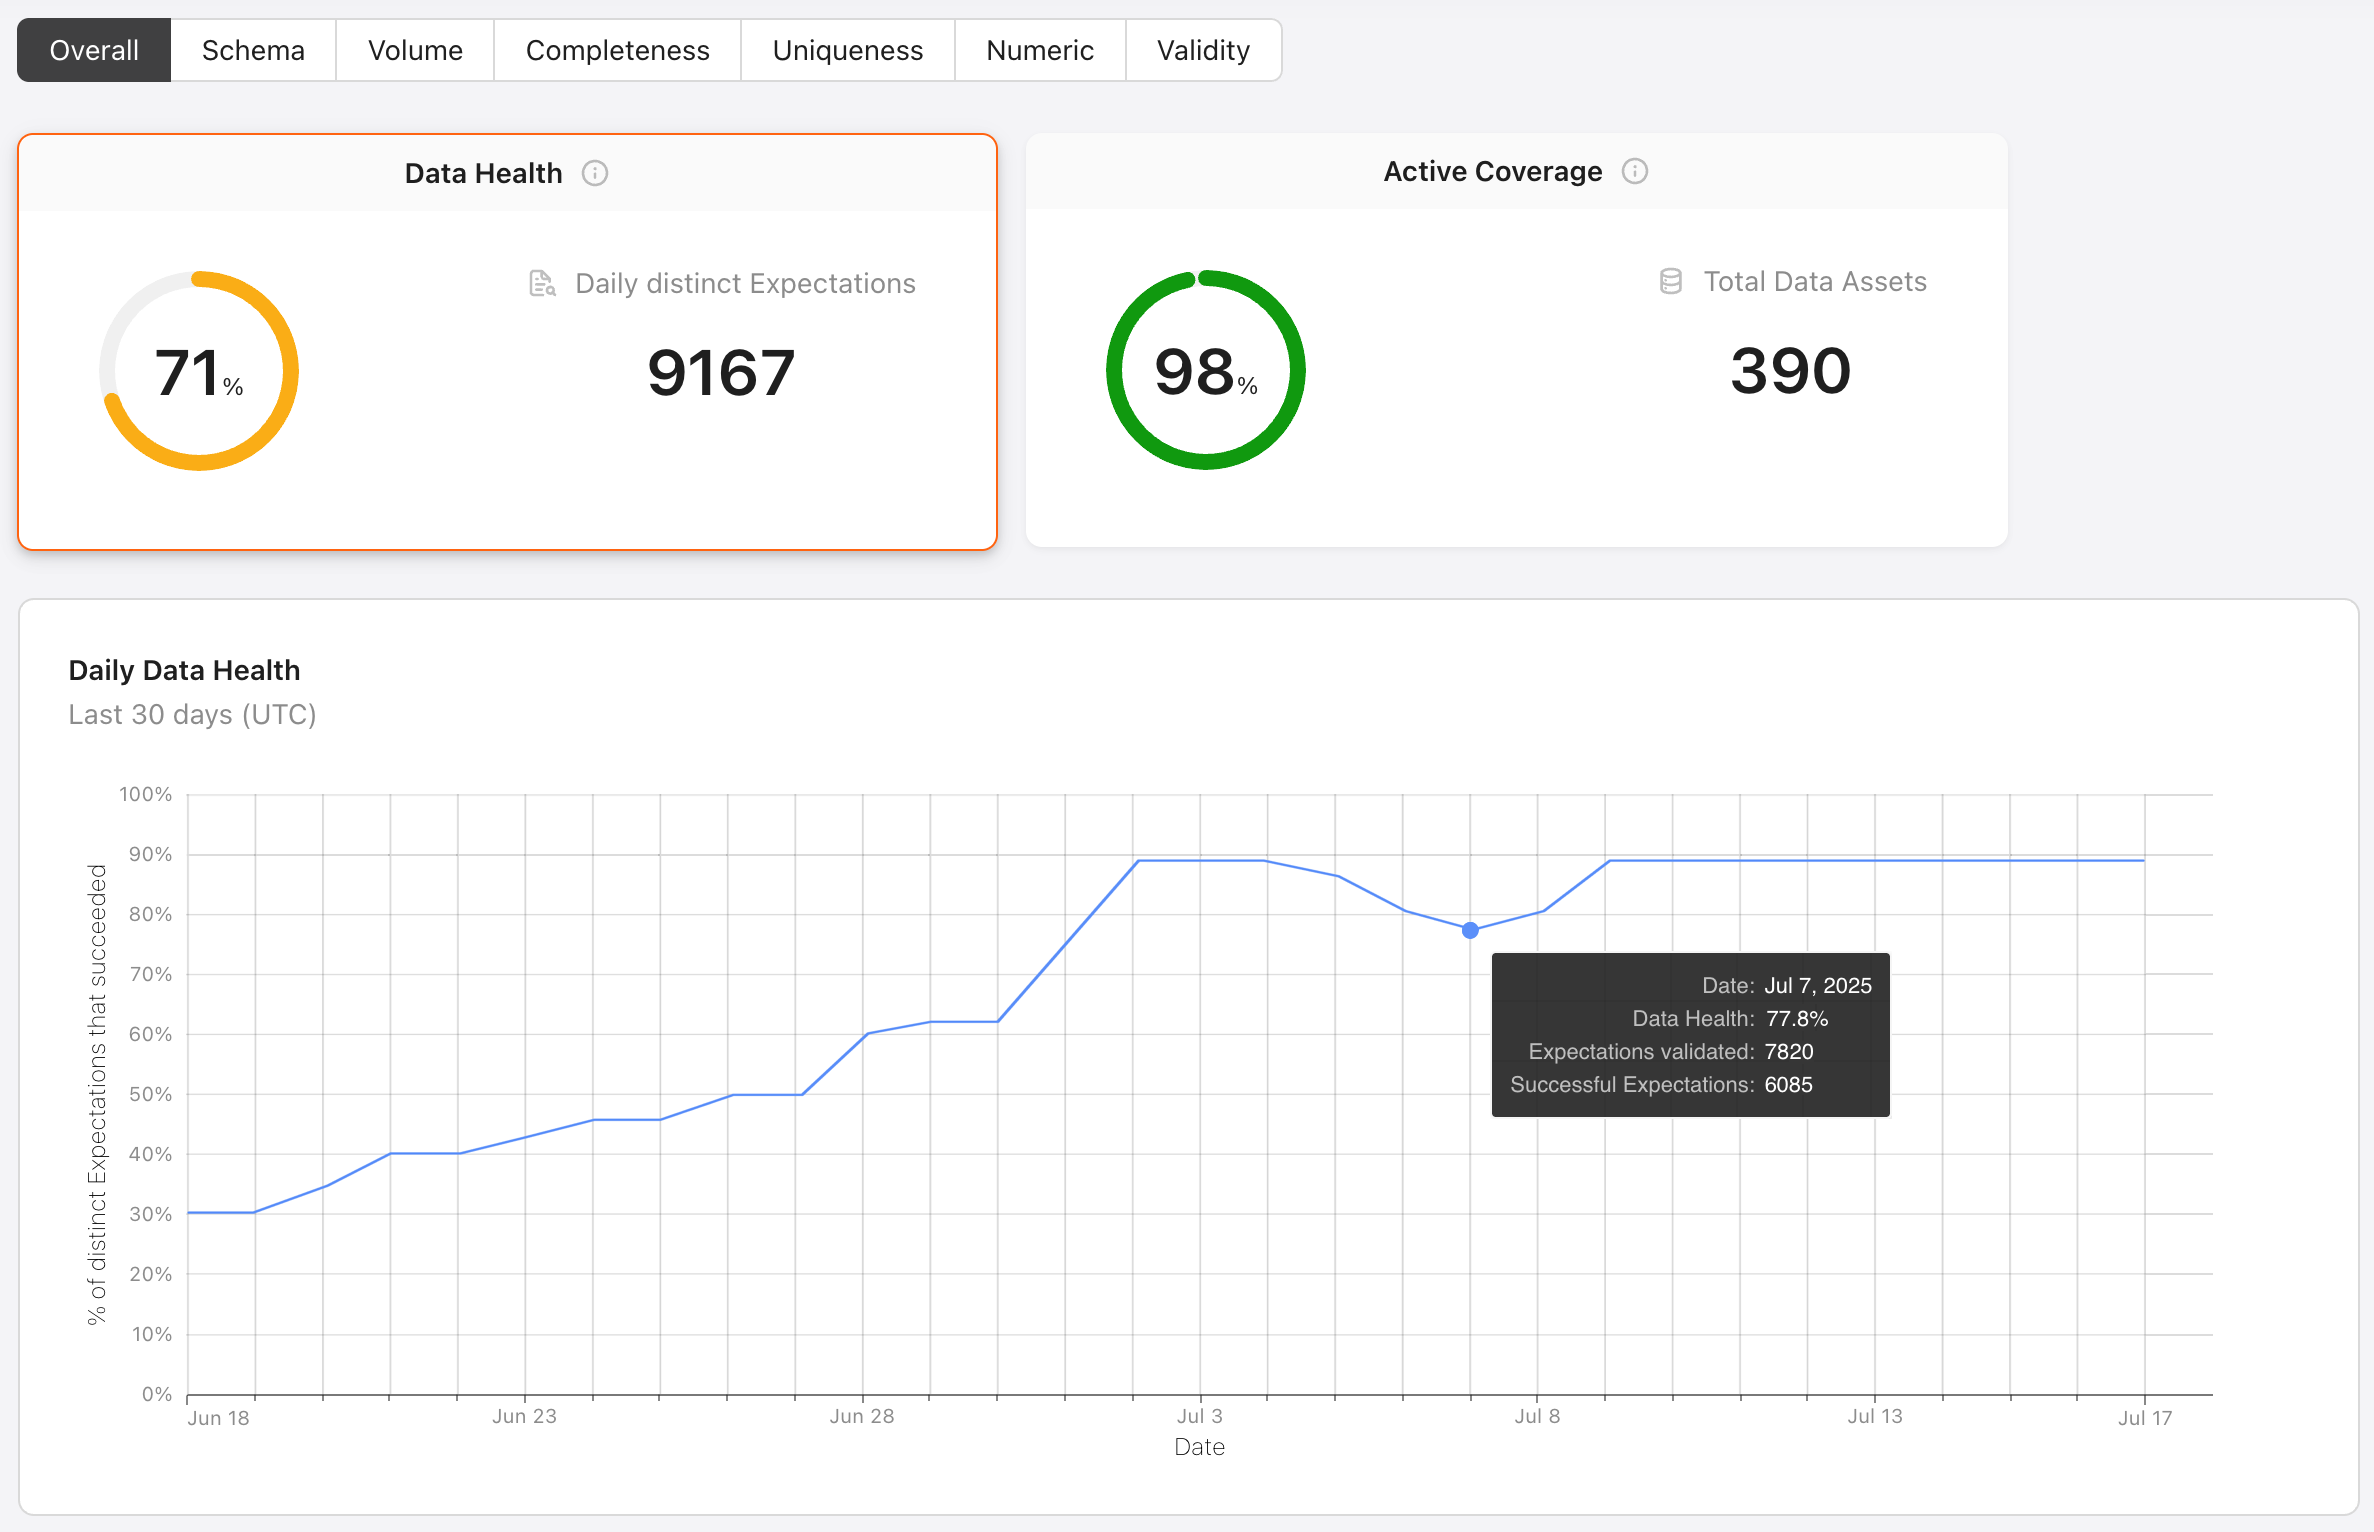
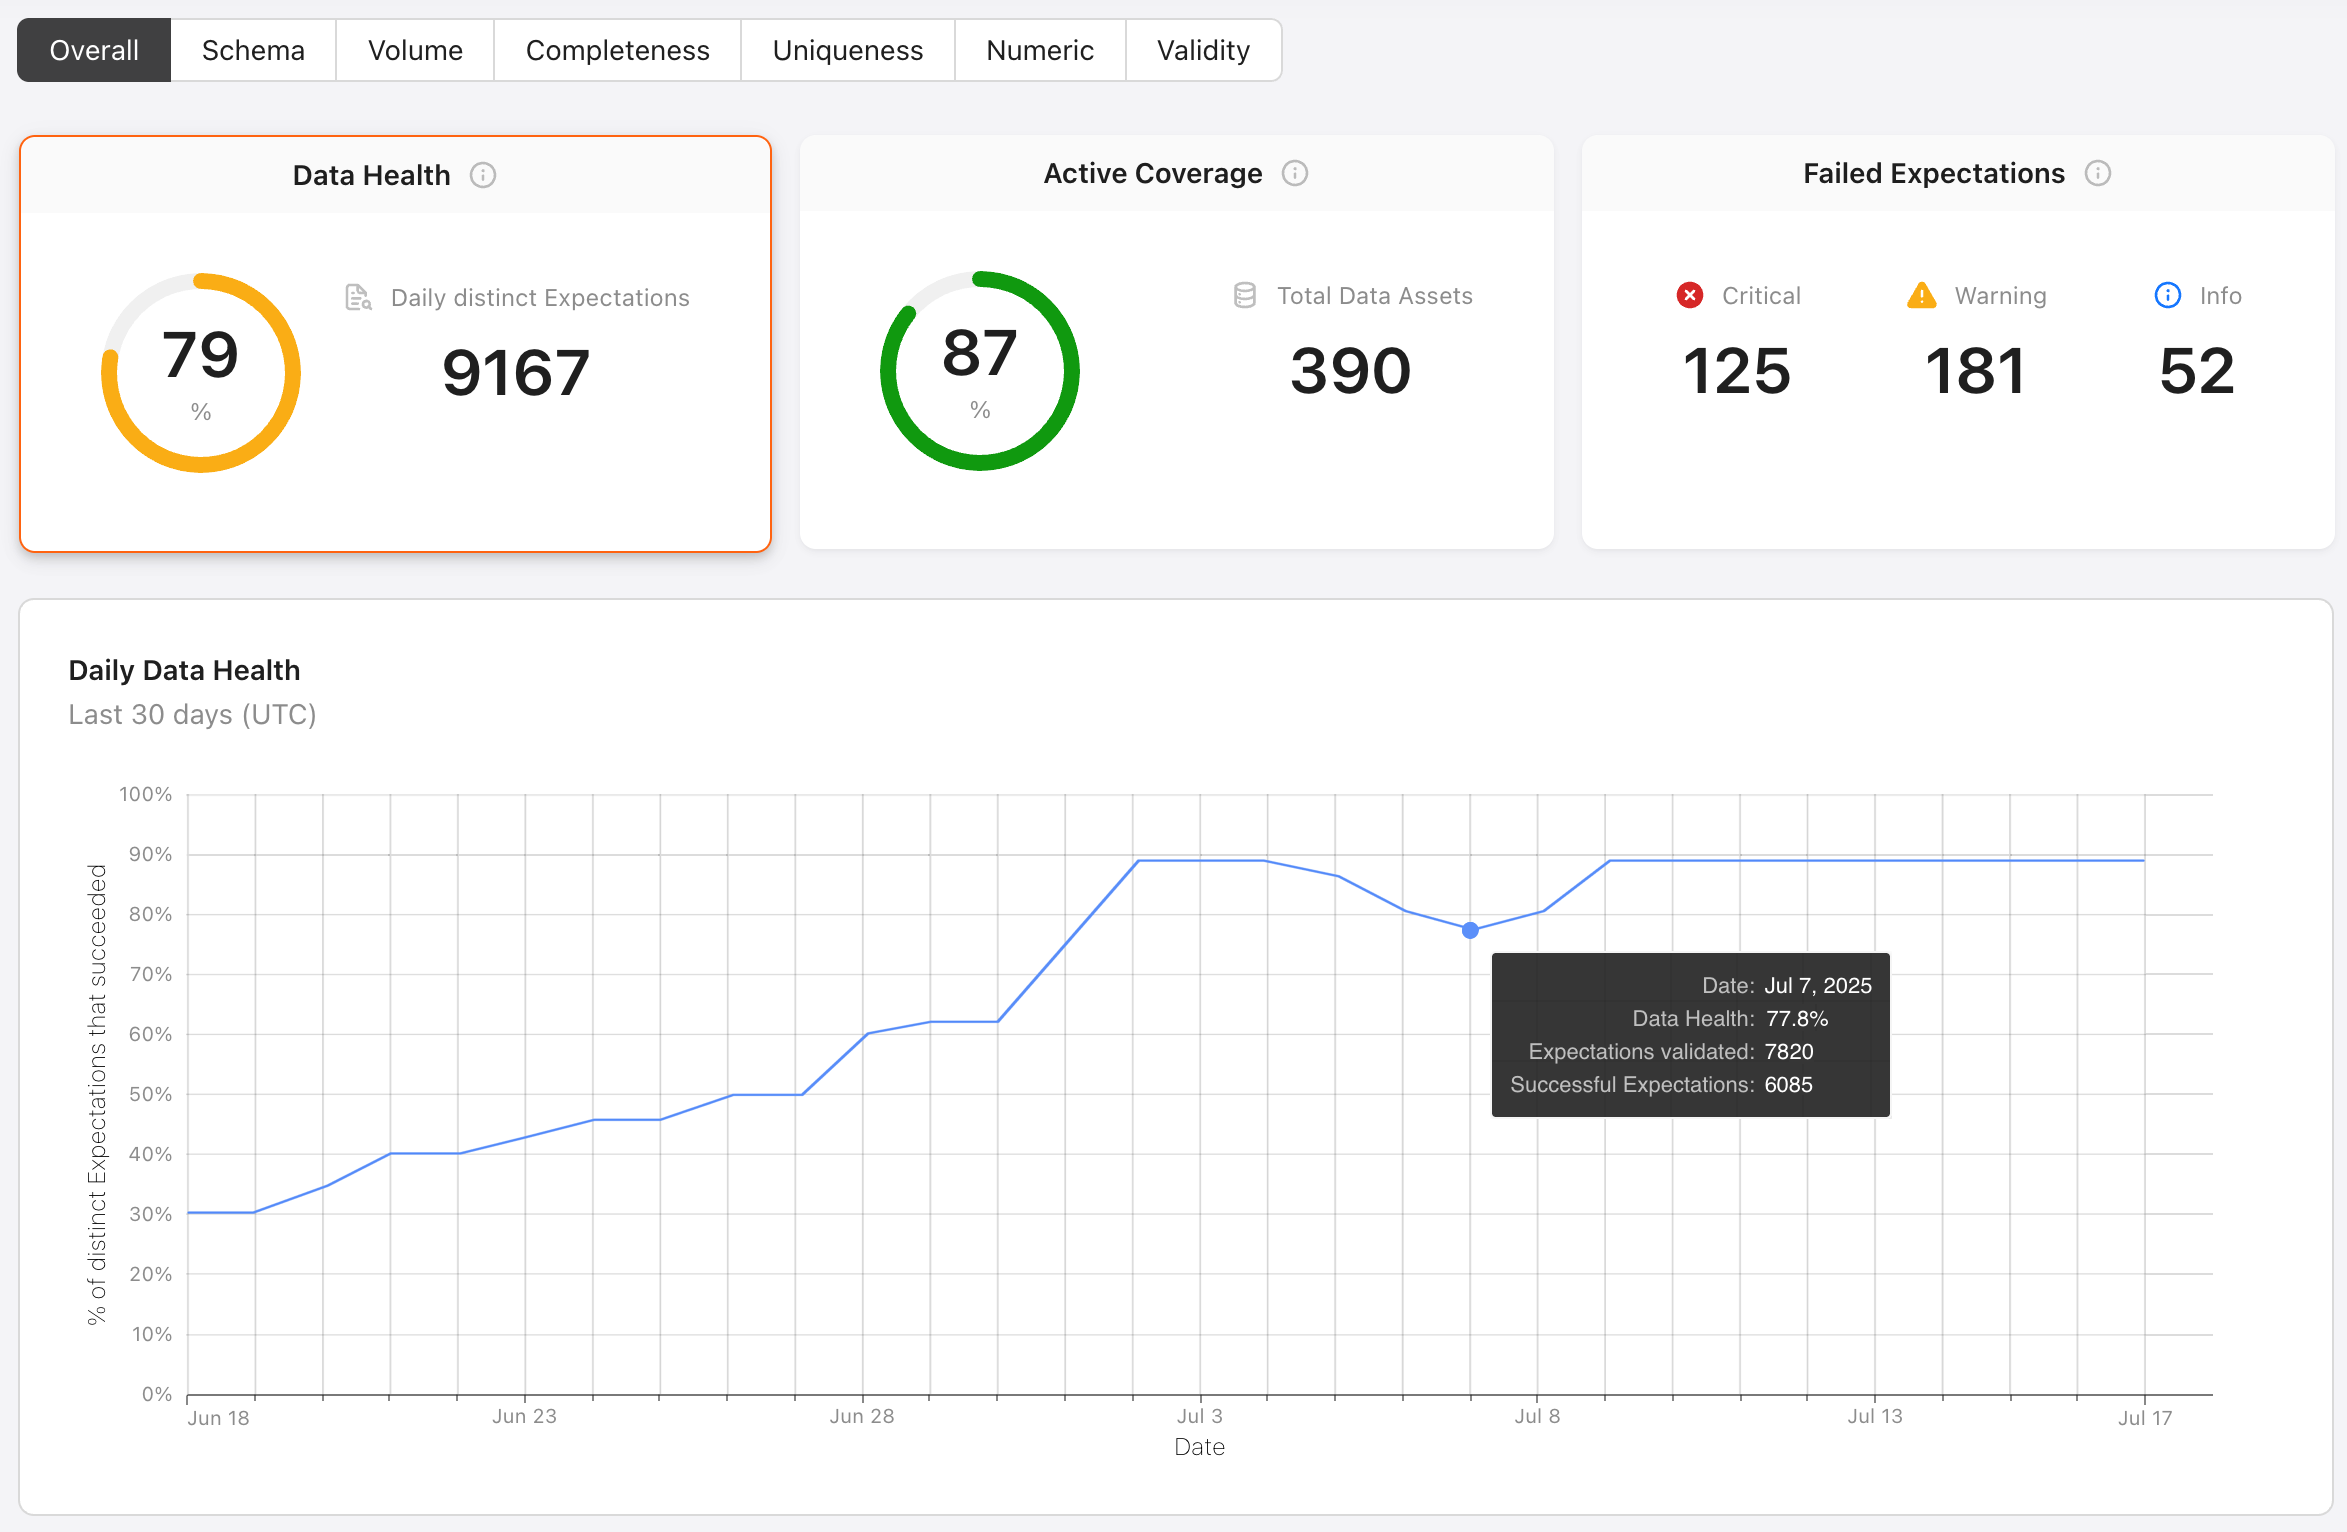
[DOCS] Data Health - Failed Expectations (#11419)

Pull request: [DOCS] Data Health - Failed Expectations
resolves https://greatexpectations.atlassian.net/browse/DOC-1201 according to the plan linked in that issue

I haven't made the planned screenshot updates yet since the UI changes are not available to me in a preview yet. I expect to get access some time this week and will make the planned screenshot changes when I can. 

- [x] Description of PR changes above includes a link to [an existing GitHub issue](https://github.com/great-expectations/great_expectations/issues)
- [x] PR title is prefixed with one of: [BUGFIX], [FEATURE], [DOCS], [MAINTENANCE], [CONTRIB], [MINORBUMP]
- [ ] Code is linted - run `invoke lint` (uses `ruff format` + `ruff check`)
- [x] Appropriate tests and docs have been updated

For more information about contributing, visit our [community resources](https://docs.greatexpectations.io/docs/core/introduction/community_resources#contribute-code-or-documentation).

After you submit your PR, keep the page open and **monitor the statuses of the various checks made by our continuous integration process at the bottom of the page. Please fix any issues that come up** and [reach out on Slack](https://greatexpectations.io/slack) if you need help. Thanks for contributing!

diff --git a/docs/docusaurus/docs/cloud/overview/data_health.md b/docs/docusaurus/docs/cloud/overview/data_health.md
@@ -8,7 +8,7 @@ To understand the health of your data, you need to know whether tests are passin
 ## Metrics
 To give you these insights into the health of your data, GX Cloud provides the following workspace-level metrics on the **Data Health** page:
 
-![Example metrics: Data Health 71%, Daily distinct Expectations 9167, Active Coverage 98%, Total Data Assets 390. Daily Data Health rollover details include date, Data Health percentage, count of Expectations validated, and count of successful Expectations. Metrics default to overall data and can be filtered to a specific data quality issue, such as schema.](/img/data_health.png)
+![Example metrics: Data Health 79%, Daily distinct Expectations 9167, Active Coverage 87%, Total Data Assets 390. Failed Expectations 125 Critical, 181 Warning, 52 Info, Daily Data Health rollover details include date, Data Health percentage, count of Expectations validated, and count of successful Expectations. Metrics default to overall data and can be filtered to a specific data quality issue, such as schema.](/img/data_health.png)
 
 - **Data Health:** A 30-day average of the following daily percentage: the number of successful distinct Expectations in a day divided by the number of distinct Expectations validated in that day. Here are some scenarios to help you understand the concepts of distinct Expectation validations and successful distinct Expectations as used in calculating data health metrics.
    - If an Expectation is validated multiple times for a given Data Asset in a single day, it will be counted as one distinct Expectation validation.
@@ -23,15 +23,17 @@ To give you these insights into the health of your data, GX Cloud provides the f
 
 - **Total Data Assets:** The current number of Data Assets in your GX Cloud workspace.
 
+- **Failed Expectations**: The number of distinct Expectations that have failed on their most recent run in the last 30 days. This metric is faceted by [failure severity](/docs/cloud/expectations/expectations_overview.md#failure-severity) into separate counts for **Critical**, **Warning**, and **Info**.
+
 Days as used in these metrics are segmented by midnight UTC.
 
-Only current Data Assets are considered in these metrics. Deleted Data Assets are excluded from the calculations even if they've had Validations within the last 30 days.
+Only current Data Assets and Expectations are considered in these metrics. Deleted Data Assets and Expectations are excluded from the calculations even if they've had Validations within the last 30 days.
 
 ## Data quality issue filters
 
 For a more nuanced understanding of what you’re testing, you can filter the **Data Health** dashboard to focus on different data quality issues such as **Schema** or **Volume**. When you apply a filter, the metrics shown are impacted as follows:
 
-- For **Data Health**, **Daily distinct Expectations**, and **Daily Data Health**, only Expectations belonging to the selected data quality issue will be considered when counting both successful distinct Expectations and distinct Expectation validations.
+- For **Data Health**, **Daily distinct Expectations**, **Daily Data Health**, **Failed Expectations**, and **Most frequently failed Expectations in the last 30 days**, only Expectations belonging to the selected data quality issue will be considered in calculations.
 
 - The **Active Coverage** percentage will be scoped to Data Assets that have been validated with at least one Expectation for the selected data quality issue in the last 30 days.
 
@@ -40,3 +42,9 @@ For a more nuanced understanding of what you’re testing, you can filter the **
 ## Next steps for improving data health
 
 If **Active Coverage** is low, drill into it for a list of **Inactive Data Assets**. Then [schedule recurring Validations](/docs/cloud/schedules/manage_schedules.md) and/or [add Expectations](/docs/cloud/expectations/manage_expectations.md#add-an-expectation) for those Data Assets to improve your coverage both overall and for specific data quality issues.
+
+![The Inactive Data Assets table has the following columns: Data Asset, Data Source name, and last validated.](/img/data_health_active_coverage.png)
+
+If **Failed Expectations** are high, drill into **Critical**, **Warning**, or **Info** for a severity-specific list of the **Most frequently failed Expectations in the last 30 days**. Then click on Expectations of interest to explore their Validation results so you can determine what action to take. You may find that there are issues in your data pipeline that need to be resolved, or you may find that you need to adjust your Expectations.
+
+![The Most frequently failed Expectations in the last 30 days table has the following columns: Expectation, Data Asset, Failures in the last 30 days.](/img/data_health_failed_expectations.png)